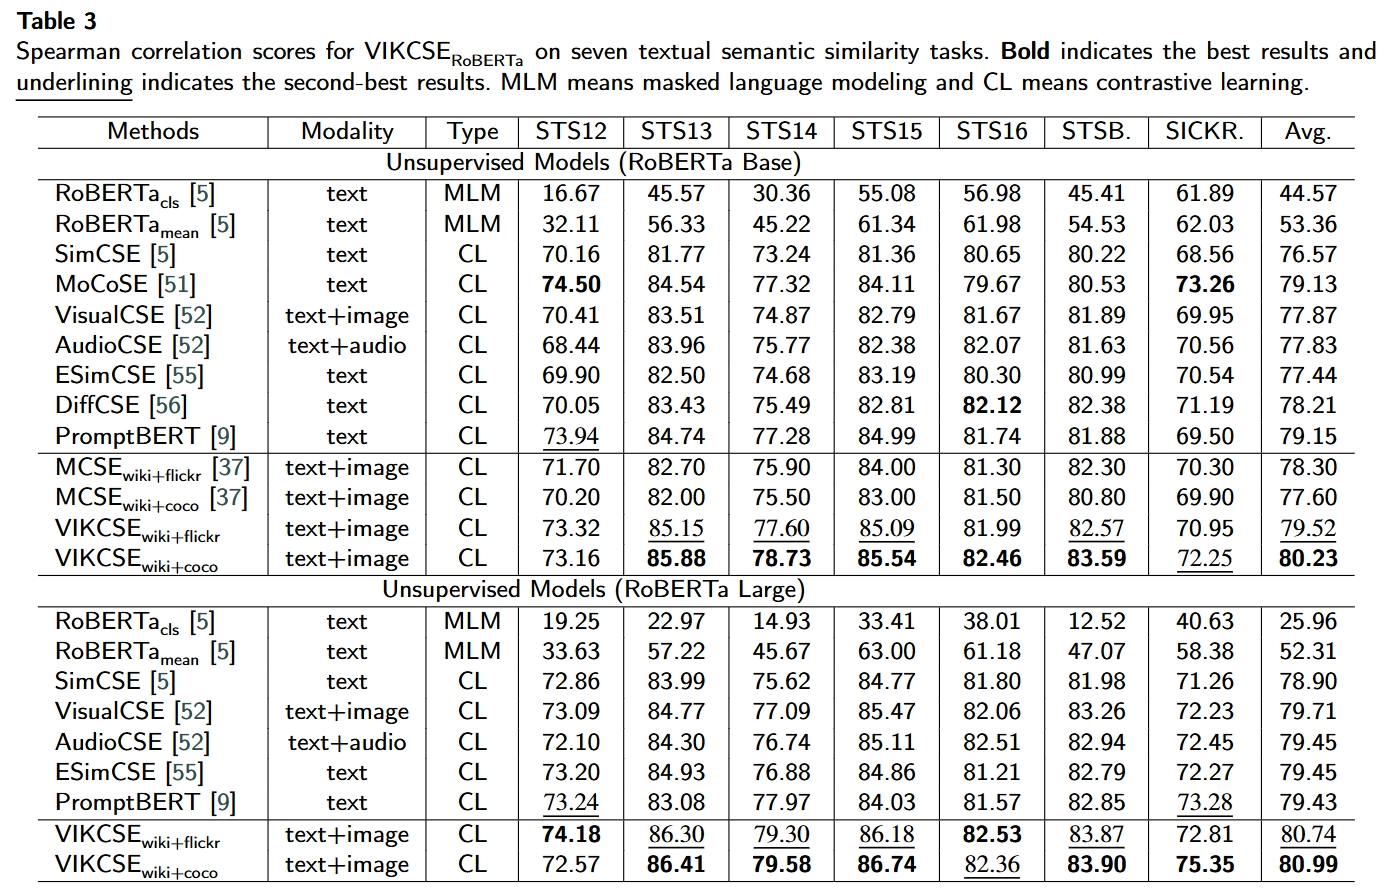
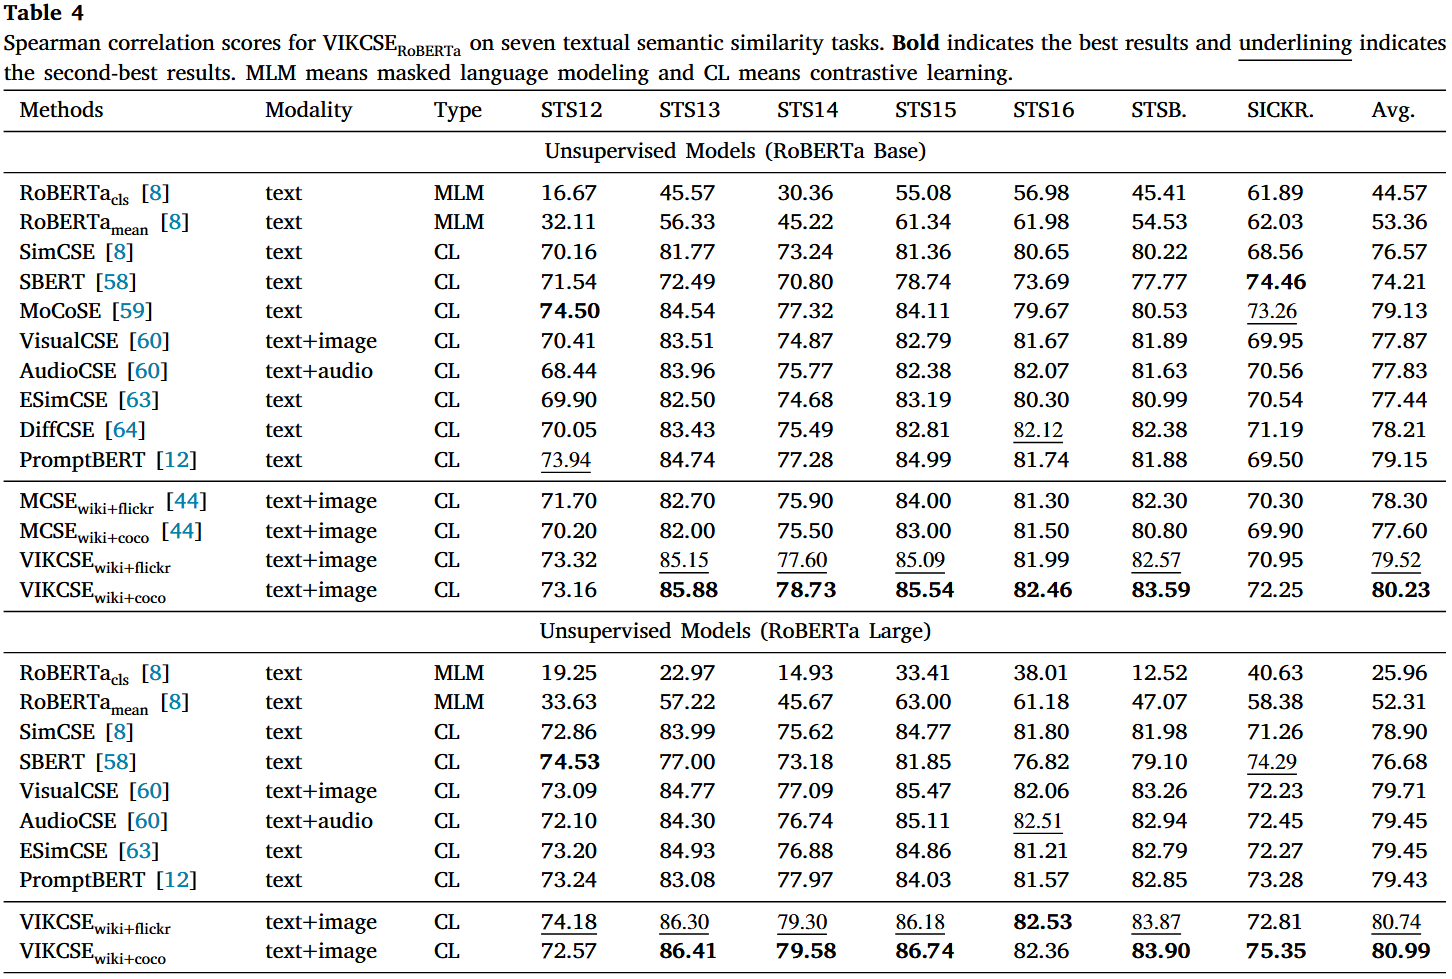
update

Changed region(s): [[0.0, 0.0, 1.0, 0.9966]]

diff --git a/README.md b/README.md
@@ -1,5 +1,5 @@
 # VIKCSE
-Implementation of paper: 'VIKCSE: VIsual-Knowledge enhenced Constrastive Sentence Embedding'
+Implementation of the paper 'VIKCSE: Visual-knowledge enhanced contrastive learning with prompts for sentence embedding' from Knowledge-based Systems.
 
 ## Abstract
 Learning high-quality text representations is a fundamental task in natural language processing. Existing methods attempt to enhance sentence representation by incorporating more external non-linguistic knowledge, thereby alleviating the anisotropy of output sentence representations. However, due to the disparity in modalities, integrating visual knowledge into text requires specific methods to seamlessly fuse visual and textual features, which presents new challenges. In this paper, we propose the **Vi**sual-**K**nowledge enhanced **C**ontrastive learning with prompts for **S**entence **E**mbedding (**VIKCSE**) method to investigate how pre-trained language models can more efficiently integrate cross-modal external semantic knowledge. Initially, the method utilizes a pre-trained multimodal contrastive model to extract visual semantic features from publicly available image-text datasets, thereby constructing a visual knowledge base. Then, we proposed a prompt-based text contrastive learning model, which uses designed templates to generate sentence semantic embedding. It then retrieves matching visual features from the visual knowledge base, together with the original guided semantic sentence embedding, and participates in contrastive loss computing. We take BERT and Roberta, the two fundamental models, as examples and evaluate the performance of VIKCSE on both the Semantic Textual Similarity (STS) task and downstream transfer tasks. Compared to similar existing work, VIKCSE achieves an average Spearman correlation improvement of 2.79\% on STS tasks, demonstrating superior performance. 
